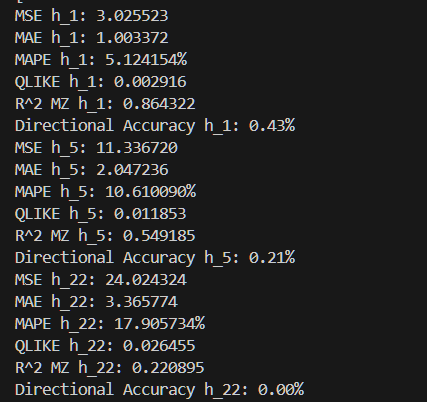
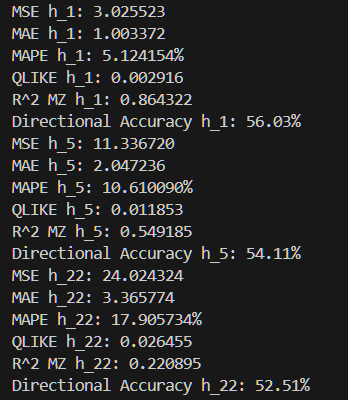
Aggiornamento

Changed region(s): [[0.0287, 0.0, 0.8621, 1.0], [0.7471, 0.93, 0.8908, 0.99], [0.7184, 0.6, 0.8621, 0.66]]

diff --git a/1_Random_Walk/random_walk.py b/1_Random_Walk/random_walk.py
@@ -3,7 +3,7 @@ import numpy as np
 import pandas as pd
 import statsmodels.api as sm
 import os
-from sklearn.metrics import accuracy_score, mean_squared_error, mean_absolute_error, mean_absolute_percentage_error
+from sklearn.metrics import mean_squared_error, mean_absolute_error, mean_absolute_percentage_error
 
 
 
@@ -13,9 +13,9 @@ from sklearn.metrics import accuracy_score, mean_squared_error, mean_absolute_er
 dataset = yf.download("^VIX", start = "2014-02-01", end = "2026-07-01")
 
 
-# -----------------
-# DATA PREPARATION
-# -----------------
+# ------------------
+# PREPARAZIONE DATI
+# ------------------
 dataset = dataset[["Close"]]
 
 if isinstance(dataset.columns, pd.MultiIndex):
@@ -30,60 +30,68 @@ oos_start = pd.Timestamp("2022-10-05")
 oos_end = pd.Timestamp("2026-06-30")
 
 
-# ---------------
-# RESULTS FOLDER
-# ---------------
-output_dir = (r"C:\Users\fede1\Desktop\Repo\5_Forecasts_&_Error_Metrics\Normale\Modelli_econometrici")
+# -------------------
+# CARTELLA RISULTATI
+# -------------------
+output_dir = (r"C:\Users\fede1\Desktop\Istruzione\2. Università\Repo\5_Forecasts_&_Error_Metrics\Normale\Modelli_econometrici")
 
 os.makedirs(output_dir, exist_ok=True)
 
 
-# ------------------
-# RANDOM WALK MODEL
-# ------------------
+# --------------------
+# MODELLO RANDOM WALK
+# --------------------
 def run_random_walk(h):
     dataset_rw = dataset.copy()
 
     dataset_rw["y_true"] = dataset_rw["Close"]
     dataset_rw["y_pred"] = (dataset_rw["Close"].shift(h))
 
-    # OOS period selection
+    # Selezione periodo OOS 
     results = dataset_rw.loc[(dataset_rw.index >= oos_start) & (dataset_rw.index <= oos_end)].copy()
 
-    # Remove NaN
+    # Elimina NaN
     results = results.dropna(subset=["y_true", "y_pred"])
 
-    # --------
-    # METRICS
-    # --------
+    # ---------
+    # METRICHE
+    # ---------
     mse = mean_squared_error(results["y_true"], results["y_pred"])
     mae = mean_absolute_error(results["y_true"], results["y_pred"])
     mape = (mean_absolute_percentage_error(results["y_true"], results["y_pred"]) * 100)
     qlike = np.mean((results["y_true"] / results["y_pred"]) - np.log(results["y_true"] / results["y_pred"]) - 1)
 
-    # R^2 of Mincer-Zarnowitz (MZ)
+    # R^2 di Mincer-Zarnowitz (MZ)
     X = sm.add_constant(results["y_pred"], has_constant="add")
     model_mz = sm.OLS(results["y_true"], X).fit()
     r2_mz = model_mz.rsquared
     
-    # Directional Accuracy
-    directional_accuracy = ((results["y_true"] - results["y_pred"]) > 0).astype(int)
-    forecast_dir = np.zeros(len(results), dtype=int)  # The RW predicts 0 (var <= 0)
-    accuracy_1 = accuracy_score(directional_accuracy, forecast_dir) * 100
+    # Directional Accuracy rispetto al VIX osservato alla data d'origine.
+    origin_positions = dataset.index.get_indexer(results.index) - h
+    if (origin_positions < 0).any():
+        raise ValueError(f"Data d'origine non disponibile per il random walk h={h}.")
+    origin_vix = dataset["Close"].iloc[origin_positions].to_numpy()
+    actual_direction = results["y_true"].to_numpy() > origin_vix
+    # Il random walk senza drift prevede V_{t+h|t} = V_t, quindi
+    # l'indicatore previsto I(V_hat_{t+h|t} > V_t) è sempre False.
+    predicted_direction = results["y_pred"].to_numpy() > origin_vix
+    directional_accuracy = (actual_direction == predicted_direction).mean() * 100
 
-    # --------
-    # RESULTS
-    # --------
+    # ----------
+    # RISULTATI
+    # ----------
     print(f"MSE h_{h}: {mse:.6f}")
     print(f"MAE h_{h}: {mae:.6f}")
     print(f"MAPE h_{h}: {mape:.6f}%")
     print(f"QLIKE h_{h}: {qlike:.6f}")
     print(f"R^2 MZ h_{h}: {r2_mz:.6f}")
+    print(f"Directional Accuracy h_{h}: {directional_accuracy:.2f}%")
 
-    # CSV file containing forecasts
+    # File CSV contenente forecasts
     df_out = pd.DataFrame({
         "Actual": results["y_true"].values,
-        "Forecast": results["y_pred"].values
+        "Forecast": results["y_pred"].values,
+        "Origin_VIX": origin_vix,
     })
 
     df_out.index = results.index

diff --git a/6_Final_Results/With_Polymarket/mcs_pm.py b/6_Final_Results/With_Polymarket/mcs_pm.py
@@ -4,6 +4,7 @@ from pathlib import Path
 from model_confidence_set import ModelConfidenceSet
 
 
+
 # ---------------
 # IMPORT DATASET
 # ---------------
@@ -11,15 +12,15 @@ orizzonte = 22  # Da cambiare ad ogni run (1, 5 e 22)
 
 # Cambia da solo il path quando si cambia orizzonte
 econometric_path = Path(
-    rf"C:\Users\fede1\Desktop\Repo\5_Forecasts_&_Error_Metrics\With_Polymarket\Modelli_econometrici\h{orizzonte}"
+    rf"C:\Users\fede1\Desktop\Istruzione\2. Università\Repo\5_Forecasts_&_Error_Metrics\With_Polymarket\Modelli_econometrici\h{orizzonte}"
 )
 
 ml_path = Path(
-    rf"C:\Users\fede1\Desktop\Repo\5_Forecasts_&_Error_Metrics\With_Polymarket\Machine_Learning\h{orizzonte}"
+    rf"C:\Users\fede1\Desktop\Istruzione\2. Università\Repo\5_Forecasts_&_Error_Metrics\With_Polymarket\Machine_Learning\h{orizzonte}"
 )
 
 dl_path = Path(
-    rf"C:\Users\fede1\Desktop\Repo\5_Forecasts_&_Error_Metrics\With_Polymarket\Deep_Learning\h{orizzonte}"
+    rf"C:\Users\fede1\Desktop\Istruzione\2. Università\Repo\5_Forecasts_&_Error_Metrics\With_Polymarket\Deep_Learning\h{orizzonte}"
 )
 
 files = {
@@ -125,22 +126,36 @@ if losses_mse.empty or losses_qlike.empty:
 # ---------------------
 # MODEL CONFIDENCE SET
 # ---------------------
-def run_mcs(losses, label):
+def run_mcs(losses, label, horizon):
+    T = len(losses)
+    block_len = max(horizon, int(np.ceil(np.sqrt(T))))
+
+    if block_len >= T:
+        raise ValueError(
+            f"Campione troppo corto: T={T}, block_len={block_len}"
+        )
+
     print(f"\n=== Model Confidence Set - {label} ===")
+    print(f"Osservazioni comuni: {T}")
+    print(f"Bootstrap replications: 5000")
+    print(f"Block length: {block_len}")
+
     mcs = ModelConfidenceSet(
         losses,
         n_boot=5000,
         alpha=0.05,
+        block_len=block_len,
         method="R",
     )
+
     mcs.compute()
     results = mcs.results()
     print(results)
     return results
 
 
-results_mse = run_mcs(losses_mse, "MSE")
-results_qlike = run_mcs(losses_qlike, "QLIKE")
+results_mse = run_mcs(losses_mse, "MSE", orizzonte)
+results_qlike = run_mcs(losses_qlike, "QLIKE", orizzonte)
 
 
 # -----------------------------------------------------------------

diff --git a/6_Final_Results/mcs.py b/6_Final_Results/mcs.py
@@ -8,17 +8,17 @@ from model_confidence_set import ModelConfidenceSet
 # ---------------
 # IMPORT DATASET
 # ---------------
-orizzonte = 22 # Da cambiare ad ogni run (1, 5 e 22)
+orizzonte = 5 # Da cambiare ad ogni run (1, 5 e 22)
 
 # Cambia da solo il path quando si cambia orizzonte
 ml_path = Path(
-    rf"C:\Users\fede1\Desktop\Repo\5_Forecasts_&_Error_Metrics\Normale\Machine_Learning\h{orizzonte}"
+    rf"C:\Users\fede1\Desktop\Istruzione\2. Università\Repo\5_Forecasts_&_Error_Metrics\Normale\Machine_Learning\h{orizzonte}"
 )
 dl_path = Path(
-    rf"C:\Users\fede1\Desktop\Repo\5_Forecasts_&_Error_Metrics\Normale\Deep_Learning\h{orizzonte}"
+    rf"C:\Users\fede1\Desktop\Istruzione\2. Università\Repo\5_Forecasts_&_Error_Metrics\Normale\Deep_Learning\h{orizzonte}"
 )
 econometric_path = Path(
-    rf"C:\Users\fede1\Desktop\Repo\5_Forecasts_&_Error_Metrics\Normale\Modelli_econometrici\h{orizzonte}"
+    rf"C:\Users\fede1\Desktop\Istruzione\2. Università\Repo\5_Forecasts_&_Error_Metrics\Normale\Modelli_econometrici\h{orizzonte}"
 )
 
 files = {
@@ -91,12 +91,25 @@ if losses_mse.empty or losses_qlike.empty:
 # ---------------------
 # MODEL CONFIDENCE SET
 # ---------------------
-def run_mcs(losses, label):
+def run_mcs(losses, label, horizon):
+    T = len(losses)
+    block_len = max(horizon, int(np.ceil(np.sqrt(T))))
+
+    if block_len >= T:
+        raise ValueError(
+            f"Campione troppo corto: T={T}, block_len={block_len}"
+        )
+
     print(f"\n=== Model Confidence Set - {label} ===")
+    print(f"Osservazioni comuni: {T}")
+    print(f"Bootstrap replications: 5000")
+    print(f"Block length: {block_len}")
+
     mcs = ModelConfidenceSet(
         losses,
         n_boot=5000,
         alpha=0.05,
+        block_len=block_len,
         method="R",
     )
     mcs.compute()
@@ -105,8 +118,8 @@ def run_mcs(losses, label):
     return results
 
 
-results_mse = run_mcs(losses_mse, "MSE")
-results_qlike = run_mcs(losses_qlike, "QLIKE")
+results_mse = run_mcs(losses_mse, "MSE", orizzonte)
+results_qlike = run_mcs(losses_qlike, "QLIKE", orizzonte)
 
 
 # -----------------------------------------------------------------

diff --git a/6_Final_Results/With_Polymarket/regimi_vol_pm.py b/6_Final_Results/With_Polymarket/regimi_vol_pm.py
@@ -7,7 +7,7 @@ from pathlib import Path
 # ---------------
 # IMPORT DATASET
 # ---------------
-orizzonte = 22 # Da cambiare ad ogni run (1, 5 e 22)
+orizzonte = 1 # Da cambiare ad ogni run (1, 5 e 22)
 
 project_root = Path(__file__).resolve().parent.parent.parent
 forecasts_root = project_root / "5_Forecasts_&_Error_Metrics" / "With_Polymarket"
@@ -123,8 +123,8 @@ for file in forecast_files:
         qlike = np.mean((y_true / y_predicted) - np.log(y_true / y_predicted)- 1)
 
         # Direzione reale e prevista rispetto al VIX osservato all'origine del forecast.
-        actual_direction = np.sign(dataset["Actual"] - dataset["Close_VIX"])
-        predicted_direction = np.sign(dataset["Forecast"] - dataset["Close_VIX"])
+        actual_direction = dataset["Actual"] > dataset["Close_VIX"]
+        predicted_direction = dataset["Forecast"] > dataset["Close_VIX"]
         regime_mask = dataset["Volatility Regime"] == regime
         directional_accuracy = (
             actual_direction[regime_mask] == predicted_direction[regime_mask]

diff --git a/6_Final_Results/regimi_vol.py b/6_Final_Results/regimi_vol.py
@@ -146,8 +146,8 @@ for file in forecast_files:
         qlike = np.mean((y_true / y_predicted) - np.log(y_true / y_predicted)- 1)
 
         # Direzione reale e prevista rispetto al VIX osservato all'origine del forecast.
-        actual_direction = np.sign(dataset["Actual"] - dataset["Close_VIX"])
-        predicted_direction = np.sign(dataset["Forecast"] - dataset["Close_VIX"])
+        actual_direction = dataset["Actual"] > dataset["Close_VIX"]
+        predicted_direction = dataset["Forecast"] > dataset["Close_VIX"]
         regime_mask = dataset["Volatility Regime"] == regime
         directional_accuracy = (
             actual_direction[regime_mask] == predicted_direction[regime_mask]

diff --git a/6_Final_Results/With_Polymarket/diebold_mariano.py b/6_Final_Results/With_Polymarket/diebold_mariano.py
@@ -109,7 +109,7 @@ for model_label, folder, file_con, file_senza in pairs:
     zeros = np.zeros_like(act)
     
     try:
-        stat_qlike, p_val_qlike = dm_test(zeros, loss_qlike_con, loss_qlike_senza, h=orizzonte, variance_estimator='bartlett')
+        stat_qlike, p_val_qlike = dm_test(zeros, loss_qlike_con, loss_qlike_senza, h=orizzonte, variance_estimator='bartlett', loss=lambda actual, forecast: forecast)
     except Exception as e:
         stat_qlike, p_val_qlike = np.nan, np.nan
         
